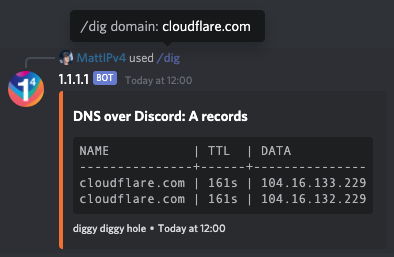
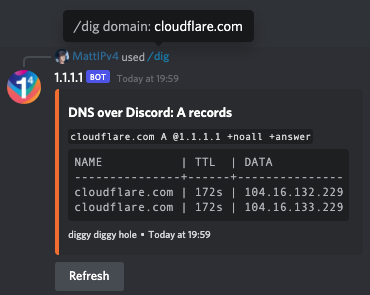
[1.1.1.1] Update the DNS over Discord docs (#1728)
* Update the DNS over Discord docs

Updates the supported types for dig & multi-dig

Adds information (and GIFs) for the new refresh button on dig & multi-dig

* Use single list format for record types

Changed region(s): [[0.0, 0.0311, 0.9514, 0.9961]]

diff --git a/products/1.1.1.1/src/content/fun-stuff/dns-over-discord.md b/products/1.1.1.1/src/content/fun-stuff/dns-over-discord.md
@@ -9,18 +9,24 @@ Ever wanted to make DNS requests from the comfort of your Discord server? Well n
 
 To start using the DNS over Discord bot, invite it to your Discord server using this link: [https://cfl.re/3nM6VfQ](https://cfl.re/3nM6VfQ)
 
+
 ## dig command
 
 Once the bot is in your server, type `/dig` to begin using the bot's main command — performing DNS lookups.
 This will provide a native interface within Discord that allows you to specify the domain to lookup, an optional DNS record type and an optional flag for a short result.
 
-Due to limitations in Discord, the `/dig` command can only offer 10 different DNS record types, and will default to 'A' records if none is specified.
+If only a domain is given for the command, the bot will default to looking for 'A' DNS records, and will return the full format result, not the short form.
 
 ![dig command](../static/dns-over-discord/dig-command.png)
 
-![dig command types](../static/dns-over-discord/dig-command-types.png)
+![dig domain: cloudflare.com](../static/dns-over-discord/dig-command-example-1.png)
+
+_`/dig domain: cloudflare.com`_
+
 
 ### Supported record types
+
+Discord has a limit of 25 options in slash commands, so DNS over Discord offers the 25 most common DNS record types to choose from:
 
 *   A
 *   AAAA
@@ -32,69 +38,147 @@ Due to limitations in Discord, the `/dig` command can only offer 10 different DN
 *   SPF
 *   SRV
 *   TXT
-
-For all DNS record types, use the `/multi-dig` command.
-
-### Examples
-
-![dig domain: cloudflare.com](../static/dns-over-discord/dig-command-example-1.png)
-
-`/dig domain: cloudflare.com`
-
-![dig domain: cloudflare.com type: AAAA short: True](../static/dns-over-discord/dig-command-example-2.png)
-
-`/dig domain: cloudflare.com type: AAAA short: True`
-
-## multi-dig command
-
-Want to lookup multiple DNS record types at once, or record types not available in `/dig`?
-The `/multi-dig` command allows you to specify any supported DNS record type, and multiple types separated by a space.
-
-When providing DNS record types for the `/multi-dig` command, Discord will not prompt you with options.
-Please provide a space-separated list of valid DNS record types to lookup, any invalid options will be silently dropped.
-'A' records will be used as the default if no valid types are given.
-
-![multi-dig command](../static/dns-over-discord/multi-dig-command.png)
-
-![multi-dig command types](../static/dns-over-discord/multi-dig-command-types.png)
-
-### Supported record types
-
-*   A
-*   AAAA
-*   CAA
-*   CERT
-*   CNAME
 *   DNSKEY
 *   DS
 *   LOC
-*   MX
+*   URI
+*   HTTPS
 *   NAPTR
-*   NS
 *   PTR
 *   SMIMEA
-*   SPF
-*   SRV
+*   SOA
 *   SSHFP
+*   SVCB
 *   TLSA
-*   TXT
-*   URI
+*   HINFO
+*   CDS
+*   CDNSKEY
 
-Use '\*' (asterisk) in place of a record type to get DNS results for all supported types.
+*To query other DNS record types, or multiple record types at once, use the `/multi-dig` command.*
 
-### Examples
+![dig command types](../static/dns-over-discord/dig-command-types.png)
+
+
+### Short form response
+
+Much like the dig command itself, DNS over Discord has an optional flag in the dig command that allows the user to request that the response be in the short form.
+
+When this is requested, the name and TTL columns will be excluded, with just the data column returned without the table formatting, similar to the equivalent dig command response.
+
+![dig domain: cloudflare.com type: AAAA short: true](../static/dns-over-discord/dig-command-example-2.png)
+
+_`/dig domain: cloudflare.com type: AAAA short: true`_
+
+
+### Refreshing existing results
+
+As part of the response that the DNS over Discord bot returns for dig commands there is a button to refresh the results.
+
+Any user can press this button, triggering the bot to re-request the DNS query in the message and update the results in the message.
+
+The refresh button is available on all responses to the dig command, including those that resulted in an error, such as an unknown domain or no records found.
+
+![Refreshing dig domain: cloudflare.com](../static/dns-over-discord/dig-command-refresh.gif)
+
+_`/dig domain: cloudflare.com`_
+
+
+## multi-dig command
+
+Want to lookup multiple DNS record types at once?
+The `/multi-dig` command allows you to specify any supported DNS record type, and multiple types separated by a space.
+
+![multi-dig command](../static/dns-over-discord/multi-dig-command.png)
 
 ![multi-dig domain: cloudflare.com types: A AAAA](../static/dns-over-discord/multi-dig-command-example-1.png)
 
-`/multi-dig domain: cloudflare.com types: A AAAA`
+_`/multi-dig domain: cloudflare.com types: A AAAA`_
 
-![multi-dig domain: cloudflare.com types: DNSKEY short: True](../static/dns-over-discord/multi-dig-command-example-2.png)
 
-`/multi-dig domain: cloudflare.com types: DNSKEY short: True`
+### Supported record types
+
+When providing DNS record types for the `/multi-dig` command, Discord will not prompt you with options.
+
+Please provide a space-separated list of valid DNS record types to lookup, any invalid options will be silently dropped.
+'A' records will be used as the default if no valid types are given.
+
+The following DNS record types are supported and considered valid by the bot:
+
+*   A
+*   AAAA
+*   CAA
+*   CERT
+*   CNAME
+*   MX
+*   NS
+*   SPF
+*   SRV
+*   TXT
+*   DNSKEY
+*   DS
+*   LOC
+*   URI
+*   HTTPS
+*   NAPTR
+*   PTR
+*   SMIMEA
+*   SOA
+*   SSHFP
+*   SVCB
+*   TLSA
+*   HINFO
+*   CDS
+*   CDNSKEY
+*   AFSDB
+*   APL
+*   CSYNC
+*   DHCID
+*   DLV
+*   DNAME
+*   EUI48
+*   EUI64
+*   HIP
+*   IPSECKEY
+*   KEY
+*   KX
+*   NSEC
+*   NSEC3
+*   NSEC3PARAM
+*   OPENPGPKEY
+*   RP
+*   TA
+*   TKEY
+*   ZONEMD
+
+*Use '\*' (asterisk) in place of a record type to get DNS results for all supported types.*
+
+![multi-dig command types](../static/dns-over-discord/multi-dig-command-types.png)
+
+
+### Short form response
+
+Like the main dig command, the multi-dig command also supports the optional short flag after the types have been specified in the slash command.
+
+![multi-dig domain: cloudflare.com types: CDS CDNSKEY short: true](../static/dns-over-discord/multi-dig-command-example-2.png)
+
+_`/multi-dig domain: cloudflare.com types: CDS CDNSKEY short: true`_
+
+
+### Refreshing existing results
+
+The multi-dig command also provides a refresh button below each set of DNS results requested (or after each block of 10 DNS record types if more than 10 were requested).
+
+As with the dig command, any user can press the refresh button to refresh the displayed DNS results, including for DNS queries that had previously failed.
+
+![Refreshing multi-dig domain: cloudflare.com types: A AAAA](../static/dns-over-discord/multi-dig-command-refresh.gif)
+
+_`/multi-dig domain: cloudflare.com types: A AAAA`_
+
 
 ## whois command
 
-The `/whois` command allows you to perform an RDAP/WHOIS lookup right in Discord to find who is behind a given domain name, an IP address, or an ASN.
+Curious about who's behind a domain name, an IP address or even an ASN?
+The `/whois` command allows you to perform an RDAP/WHOIS lookup right in Discord for a given domain, IP or ASN.
 
 ![whois command](../static/dns-over-discord/whois-command.png)
 
@@ -102,19 +186,19 @@ The `/whois` command allows you to perform an RDAP/WHOIS lookup right in Discord
 
 ![whois query: cloudflare.com](../static/dns-over-discord/whois-command-example-1.png)
 
-`/whois query: cloudflare.com`
+_`/whois query: cloudflare.com`_
 
 ![whois query: 104.16.132.229](../static/dns-over-discord/whois-command-example-2.png)
 
-`/whois query: 104.16.132.229`
+_`/whois query: 104.16.132.229`_
 
 ![whois query: 2606:4700::6810:84e5](../static/dns-over-discord/whois-command-example-3.png)
 
-`/whois query: 2606:4700::6810:84e5`
+_`/whois query: 2606:4700::6810:84e5`_
 
 ![whois query: 13335](../static/dns-over-discord/whois-command-example-4.png)
 
-`/whois query: 13335`
+_`/whois query: 13335`_
 
 ## Other commands
 
@@ -126,7 +210,7 @@ The `/help` command provides in-Discord documentation about all the commands ava
 
 ![help command](../static/dns-over-discord/help-command.png)
 
-`/help`
+_`/help`_
 
 ### privacy command
 
@@ -135,7 +219,7 @@ This notice can also be viewed at [https://dns-over-discord.v4.wtf/privacy](http
 
 ![privacy command](../static/dns-over-discord/privacy-command.png)
 
-`/privacy`
+_`/privacy`_
 
 ### github command
 
@@ -144,7 +228,7 @@ The GitHub repository can be accessed at [https://github.com/MattIPv4/DNS-over-D
 
 ![github command](../static/dns-over-discord/github-command.png)
 
-`/github`
+_`/github`_
 
 ### invite command
 
@@ -153,7 +237,7 @@ The bot can be invited at any time with [https://cfl.re/3nM6VfQ](https://cfl.re/
 
 ![invite command](../static/dns-over-discord/invite-command.png)
 
-`/invite`
+_`/invite`_
 
 ---
 
